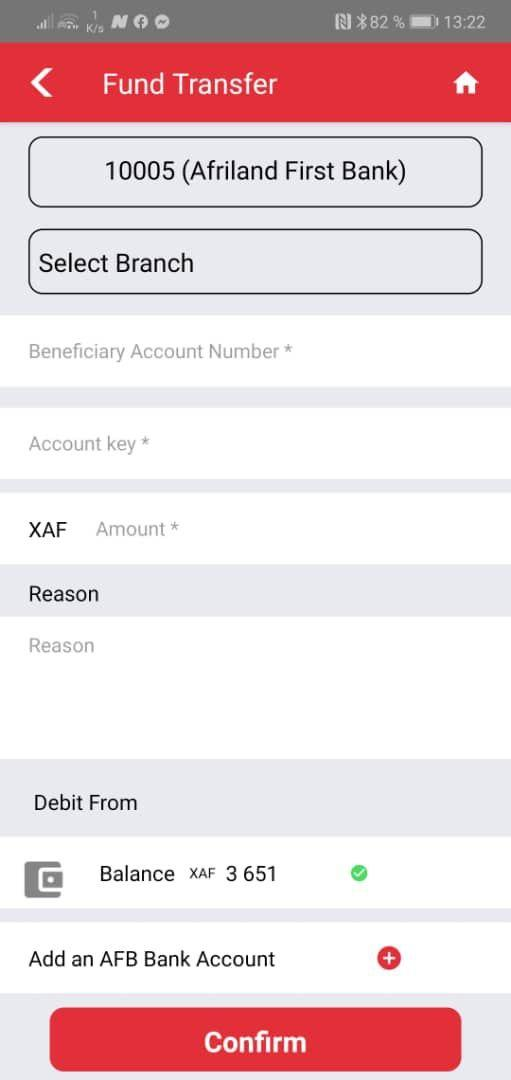
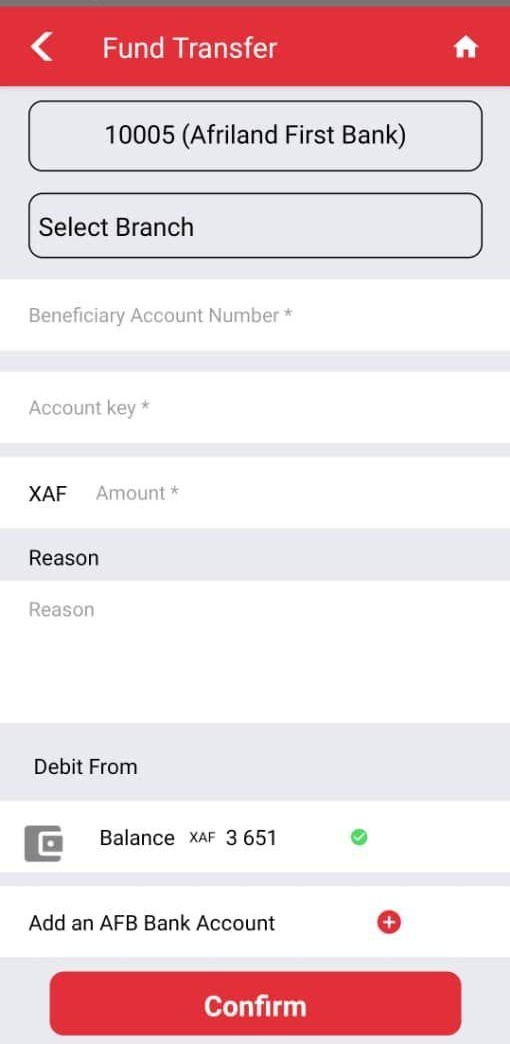
-added internationalisation. -cropped images

diff --git a/src/locale/fr/messages.js b/src/locale/fr/messages.js
@@ -1,1 +1,1 @@
-/* eslint-disable */module.exports={languageData:{"plurals":function(n,ord){if(ord)return n==1?"one":"other";return n>=0&&n<2?"one":"other"}},messages:{"\"Robes Tontines\"":"\"Robes Tontines\"","About Us":"A propos","Account Management":"Gestion de Comptes","Accounts":"Comptes","Add Address":"Ajouter une adresse","Add address":"Ajouter une adresse","Airtime":"Cr\xE9dit de Communication","Airtime to me":"Airtime to me","Airtime to someone":"Airtime to someone","Application for new account":"Demande d'ouverture de compte","Bank Account":"Compte Banquaires","Bank Accounts":"Comptes Banquaire","Beneficiary Account":"Comptes des B\xE9n\xE9ficiaire","Beneficiary Accounts":"Comptes des B\xE9n\xE9ficiaires","Cameroon":"Cameroun","Cash In":"Cash In","Cash Out":"Cash Out","Change PIN":"Changer le PIN","Choose From Beneficiary List":"Choisissez dans la Liste des B\xE9n\xE9ficiaires","Choose from beneficiary list":"Choisissez dans la Liste des B\xE9n\xE9ficiaires","Congo":"Congo","Contact":"Contact","Contribute":"Contribuer","Contribute to Tontine":"Contribuer \xE0 la Tontine","Data":"Donn\xE9es Mobiles","Doc":"Guide","Edit user Details":"Modifer Les Information de L'utilisateur","Edit user details":"Modifer Les Information de L'utilisateur","English":"Anglais","Enter Beneficiary Account":"Saisir le num\xE9ro de compte du b\xE9n\xE9ficiaire","Enter beneficiary account number":"Saisir le num\xE9ro de compte du b\xE9n\xE9ficiaire","Exchange Rate":"Taux de change","Exchange rates":"Taux de change","Flash Transfer":"Transfert Flash","French":"Fran\xE7ais","From an AFB Bank Account":"Depuis un compte bancaire AFB","Fund Transfer":"Transfert de fonds","Guinea":"Guin\xE9e","Home":"Accueil","Ivory Coast":"C\xF4te d'Ivoire","Learn More":"Plus D'Informations","Liberia":"Lib\xE9ria","Lorem ipsum dolor sit amet, consectetur adipiscing elit. Integer sagittis faucibus sollicitudin. Vestibulum arcu mauris, ullamcorper ac neque vel, tempus commodo felis. Nullam at vestibulum nibh, eu maximus tortor. Suspendisse neque justo, blandit ut consectetur at, facilisis ac augue. Etiam tincidunt ullamcorper magna. Nunc dignissim augue vehicula nibh euismod, sit amet facilisis elit suscipit. Nam nunc tortor, tincidunt vel enim ut, porttitor varius magna. Class aptent taciti sociosqu ad litora torquent per conubia nostra, per inceptos himenaeos. Cras elementum sapien tellus, vitae molestie metus elementum fermentum. Etiam non dignissim erat. Sed pulvinar sem ligula, mattis consectetur lacus suscipit a. Mauris hendrerit, lacus non interdum aliquet, orci ipsum faucibus leo, eget ultrices tellus urna a lacus. Sed condimentum ullamcorper metus. Integer quis tincidunt risus, sit amet pulvinar purus. In rhoncus felis ac velit faucibus ultrices. Duis metus nunc, vehicula eget tortor nec, sagittis ultrices metus.":"Lorem ipsum dolor sit amet, consectetur adipiscing elit. Integer sagittis faucibus sollicitudin. Vestibulum arcu mauris, ullamcorper ac neque vel, tempus commodo felis. Nullam at vestibulum nibh, eu maximus tortor. Suspendisse neque justo, blandit ut consectetur at, facilisis ac augue. Etiam tincidunt ullamcorper magna. Nunc dignissim augue vehicula nibh euismod, sit amet facilisis elit suscipit. Nam nunc tortor, tincidunt vel enim ut, porttitor varius magna. Class aptent taciti sociosqu ad litora torquent per conubia nostra, per inceptos himenaeos. Cras elementum sapien tellus, vitae molestie metus elementum fermentum. Etiam non dignissim erat. Sed pulvinar sem ligula, mattis consectetur lacus suscipit a. Mauris hendrerit, lacus non interdum aliquet, orci ipsum faucibus leo, eget ultrices tellus urna a lacus. Sed condimentum ullamcorper metus. Integer quis tincidunt risus, sit amet pulvinar purus. In rhoncus felis ac velit faucibus ultrices. Duis metus nunc, vehicula eget tortor nec, sagittis ultrices metus.","My Bank Account":"Mon Compte Bancaire","My Bank Accounts":"Mes Comptes Bancaires","My number":"Mon num\xE9ro","NOT AVAILABLE!":"PAS DISPONIBLE","New Tontine Payment":"Nouveau de Paiement de Tontine","New payment":"Nouveau Paiement","Other number":"Autre num\xE9ro","Partner Types":"Types de Partenaires","Partners":"Partenaires","Payment":"Paiement","Payment History":"Historique de Paiement","Pending Approvals":"Approbations en cours","Product":"Produit","Product and Service":"Produit et Service","Products and Services":"Produits et Services","Service":"Service","Service Payment":"Paiement de Service","Subscribtion for bank card":"Abonnement \xE0 la carte bancaire","To AFB Bank":"Vers un compte bancaire AFB","To An AFB Bank Account":"Vers un compte bancaire AFB","To Other Wallet":"Vers un autre portefeuill","To an AFB Bank Account":"Vers un compte bancaire AFB","To an AFB bank account":"Vers un compte bancaire AFB","To other wallet":"Vers un autre portefeuille","Tontine":"Tontine","Tontine History":"Historique de Tontine","Top Up":"Top Up","Via QR CODE":"Via QR CODE","about.text":"Tout savoir sur notre histoire, notre vision, notre strat\xE9gie pour devenir la banque africaine du 3\xE8me mill\xE9naire.A ce jour, la banque compte environ quarante (40) agences dans les dix (10) r\xE9gions du Cameroun malgr\xE9 la situation \xE9conomique d\xE9favorable du pays et la tendance g\xE9n\xE9rale \xE0 la faillite des banques.<0/>Obtenir des informations sur la gouvernance d'entreprise, notre r\xE9seau, nos relations avec les investisseurs.","fyjk;glifktfy":"fyjk;glifktfy","rights":"Tous Droits R\xE9serv\xE9s"}};
+/* eslint-disable */module.exports={languageData:{"plurals":function(n,ord){if(ord)return n==1?"one":"other";return n>=0&&n<2?"one":"other"}},messages:{"\"Robes Tontines\"":"\"Robes Tontines\"","About Us":"A propos","Account Management":"Gestion de Comptes","Accounts":"Comptes","Add Address":"Ajouter une adresse","Add address":"Ajouter une adresse","Airtime":"Cr\xE9dit de Communication","Airtime to me":"M'envoyer du Cr\xE9dit","Airtime to someone":"Envoyer du Cr\xE9dit \xE0 Quelqu'un","Application for new account":"Demande d'ouverture de compte","Bank Account":"Compte Banquaires","Bank Accounts":"Comptes Banquaire","Beneficiary Account":"Comptes des B\xE9n\xE9ficiaire","Beneficiary Accounts":"Comptes des B\xE9n\xE9ficiaires","Cameroon":"Cameroun","Cash In":"Cash In","Cash Out":"Cash Out","Change PIN":"Changer le PIN","Choose From Beneficiary List":"Choisissez dans la Liste des B\xE9n\xE9ficiaires","Choose from beneficiary list":"Choisissez dans la Liste des B\xE9n\xE9ficiaires","Congo":"Congo","Contact":"Contact","Contribute":"Contribuer","Contribute to Tontine":"Contribuer \xE0 la Tontine","Data":"Donn\xE9es Mobiles","Doc":"Guide","Edit user Details":"Modifer Les Information de L'utilisateur","Edit user details":"Modifer Les Information de L'utilisateur","English":"Anglais","Enter Beneficiary Account Number":"Saisir le num\xE9ro de compte du b\xE9n\xE9ficiaire","Enter beneficiary account number":"Saisir le num\xE9ro de compte du b\xE9n\xE9ficiaire","Exchange rates":"Taux de change","Flash Transfer":"Transfert Flash","French":"Fran\xE7ais","From an AFB Bank Account":"Depuis un compte bancaire AFB","Fund Transfer":"Transfert de fonds","Guinea":"Guin\xE9e","Home":"Accueil","Ivory Coast":"C\xF4te d'Ivoire","Learn More":"Plus D'Informations","Liberia":"Lib\xE9ria","Lorem ipsum dolor sit amet, consectetur adipiscing elit. Integer sagittis faucibus sollicitudin. Vestibulum arcu mauris, ullamcorper ac neque vel, tempus commodo felis. Nullam at vestibulum nibh, eu maximus tortor. Suspendisse neque justo, blandit ut consectetur at, facilisis ac augue. Etiam tincidunt ullamcorper magna. Nunc dignissim augue vehicula nibh euismod, sit amet facilisis elit suscipit. Nam nunc tortor, tincidunt vel enim ut, porttitor varius magna. Class aptent taciti sociosqu ad litora torquent per conubia nostra, per inceptos himenaeos. Cras elementum sapien tellus, vitae molestie metus elementum fermentum. Etiam non dignissim erat. Sed pulvinar sem ligula, mattis consectetur lacus suscipit a. Mauris hendrerit, lacus non interdum aliquet, orci ipsum faucibus leo, eget ultrices tellus urna a lacus. Sed condimentum ullamcorper metus. Integer quis tincidunt risus, sit amet pulvinar purus. In rhoncus felis ac velit faucibus ultrices. Duis metus nunc, vehicula eget tortor nec, sagittis ultrices metus.":"Lorem ipsum dolor sit amet, consectetur adipiscing elit. Integer sagittis faucibus sollicitudin. Vestibulum arcu mauris, ullamcorper ac neque vel, tempus commodo felis. Nullam at vestibulum nibh, eu maximus tortor. Suspendisse neque justo, blandit ut consectetur at, facilisis ac augue. Etiam tincidunt ullamcorper magna. Nunc dignissim augue vehicula nibh euismod, sit amet facilisis elit suscipit. Nam nunc tortor, tincidunt vel enim ut, porttitor varius magna. Class aptent taciti sociosqu ad litora torquent per conubia nostra, per inceptos himenaeos. Cras elementum sapien tellus, vitae molestie metus elementum fermentum. Etiam non dignissim erat. Sed pulvinar sem ligula, mattis consectetur lacus suscipit a. Mauris hendrerit, lacus non interdum aliquet, orci ipsum faucibus leo, eget ultrices tellus urna a lacus. Sed condimentum ullamcorper metus. Integer quis tincidunt risus, sit amet pulvinar purus. In rhoncus felis ac velit faucibus ultrices. Duis metus nunc, vehicula eget tortor nec, sagittis ultrices metus.","My Bank Account":"Mon Compte Bancaire","My Bank Accounts":"Mes Comptes Bancaires","My number":"Mon num\xE9ro","NOT AVAILABLE!":"PAS DISPONIBLE","New Tontine Payment":"Nouveau de Paiement de Tontine","New payment":"Nouveau Paiement","Other number":"Autre num\xE9ro","Partner Types":"Types de Partenaires","Partners":"Partenaires","Payment":"Paiement","Payment History":"Historique de Paiement","Pending Approvals":"Approbations en cours","Product":"Produit","Product and Service":"Produit et Service","Products and Services":"Produits et Services","Service":"Service","Service Payment":"Paiement de Service","Subscribtion for bank card":"Abonnement \xE0 la carte bancaire","To AFB Bank":"Vers un compte bancaire AFB","To An AFB Bank Account":"Vers un compte bancaire AFB","To Other Wallet":"Vers un autre portefeuille","To an AFB Bank Account":"Vers un compte bancaire AFB","To an AFB bank account":"Vers un compte bancaire AFB","To other wallet":"Vers un autre portefeuille","Tontine":"Tontine","Tontine History":"Historique de Tontine","Top Up":"Top Up","Via QR CODE":"Via QR CODE","about.text":"Tout savoir sur notre histoire, notre vision, notre strat\xE9gie pour devenir la banque africaine du 3\xE8me mill\xE9naire.A ce jour, la banque compte environ quarante (40) agences dans les dix (10) r\xE9gions du Cameroun malgr\xE9 la situation \xE9conomique d\xE9favorable du pays et la tendance g\xE9n\xE9rale \xE0 la faillite des banques.<0/>Obtenir des informations sur la gouvernance d'entreprise, notre r\xE9seau, nos relations avec les investisseurs.","fyjk;glifktfy":"fyjk;glifktfy","rights":"Tous Droits R\xE9serv\xE9s"}};

diff --git a/src/locale/en/messages.js b/src/locale/en/messages.js
@@ -1,1 +1,1 @@
-/* eslint-disable */module.exports={languageData:{"plurals":function(n,ord){var s=String(n).split("."),v0=!s[1],t0=Number(s[0])==n,n10=t0&&s[0].slice(-1),n100=t0&&s[0].slice(-2);if(ord)return n10==1&&n100!=11?"one":n10==2&&n100!=12?"two":n10==3&&n100!=13?"few":"other";return n==1&&v0?"one":"other"}},messages:{"\"Robes Tontines\"":"\"Robes Tontines\"","About Us":"About Us","Account Management":"Account Management","Accounts":"Accounts","Add Address":"Add Address","Add address":"Add address","Airtime":"Airtime","Airtime to me":"Airtime to me","Airtime to someone":"Airtime to someone","Application for new account":"Application for new account","Bank Account":"Bank Account","Bank Accounts":"Bank Accounts","Beneficiary Account":"Beneficiary Account","Beneficiary Accounts":"Beneficiary Accounts","Cameroon":"Cameroon","Cash In":"Cash In","Cash Out":"Cash Out","Change PIN":"Change PIN","Choose From Beneficiary List":"Choose From Beneficiary List","Choose from beneficiary list":"Choose from beneficiary list","Congo":"Congo","Contact":"Contact","Contribute":"Contribute","Contribute to Tontine":"Contribute to Tontine","Data":"Data","Doc":"Doc","Edit user Details":"Edit user Details","Edit user details":"Edit user details","English":"English","Enter Beneficiary Account":"Enter Beneficiary Account","Enter beneficiary account number":"Enter beneficiary account number","Exchange Rate":"Exchange Rate","Exchange rates":"Exchange rates","Flash Transfer":"Flash Transfer","French":"French","From an AFB Bank Account":"From an AFB Bank Account","Fund Transfer":"Fund Transfer","Guinea":"Guinea","Home":"Home","Ivory Coast":"Ivory Coast","Learn More":"Learn More","Liberia":"Liberia","Lorem ipsum dolor sit amet, consectetur adipiscing elit. Integer sagittis faucibus sollicitudin. Vestibulum arcu mauris, ullamcorper ac neque vel, tempus commodo felis. Nullam at vestibulum nibh, eu maximus tortor. Suspendisse neque justo, blandit ut consectetur at, facilisis ac augue. Etiam tincidunt ullamcorper magna. Nunc dignissim augue vehicula nibh euismod, sit amet facilisis elit suscipit. Nam nunc tortor, tincidunt vel enim ut, porttitor varius magna. Class aptent taciti sociosqu ad litora torquent per conubia nostra, per inceptos himenaeos. Cras elementum sapien tellus, vitae molestie metus elementum fermentum. Etiam non dignissim erat. Sed pulvinar sem ligula, mattis consectetur lacus suscipit a. Mauris hendrerit, lacus non interdum aliquet, orci ipsum faucibus leo, eget ultrices tellus urna a lacus. Sed condimentum ullamcorper metus. Integer quis tincidunt risus, sit amet pulvinar purus. In rhoncus felis ac velit faucibus ultrices. Duis metus nunc, vehicula eget tortor nec, sagittis ultrices metus.":"Lorem ipsum dolor sit amet, consectetur adipiscing elit. Integer sagittis faucibus sollicitudin. Vestibulum arcu mauris, ullamcorper ac neque vel, tempus commodo felis. Nullam at vestibulum nibh, eu maximus tortor. Suspendisse neque justo, blandit ut consectetur at, facilisis ac augue. Etiam tincidunt ullamcorper magna. Nunc dignissim augue vehicula nibh euismod, sit amet facilisis elit suscipit. Nam nunc tortor, tincidunt vel enim ut, porttitor varius magna. Class aptent taciti sociosqu ad litora torquent per conubia nostra, per inceptos himenaeos. Cras elementum sapien tellus, vitae molestie metus elementum fermentum. Etiam non dignissim erat. Sed pulvinar sem ligula, mattis consectetur lacus suscipit a. Mauris hendrerit, lacus non interdum aliquet, orci ipsum faucibus leo, eget ultrices tellus urna a lacus. Sed condimentum ullamcorper metus. Integer quis tincidunt risus, sit amet pulvinar purus. In rhoncus felis ac velit faucibus ultrices. Duis metus nunc, vehicula eget tortor nec, sagittis ultrices metus.","My Bank Account":"My Bank Account","My Bank Accounts":"My Bank Accounts","My number":"My number","NOT AVAILABLE!":"NOT AVAILABLE!","New Tontine Payment":"New Tontine Payment","New payment":"New payment","Other number":"Other number","Partner Types":"Partner Types","Partners":"Partners","Payment":"Payment","Payment History":"Payment history","Pending Approvals":"Pending approval","Product":"Product","Product and Service":"Product and Service","Products and Services":"Products and Services","Service":"Service","Service Payment":"Service Payment","Subscribtion for bank card":"Subscribtion for bank card","To AFB Bank":"To AFB Bank","To An AFB Bank Account":"To An AFB Bank Account","To Other Wallet":"To Other Wallet","To an AFB Bank Account":"To an AFB Bank Account","To an AFB bank account":"To an AFB bank account","To other wallet":"To other wallet","Tontine":"Tontine","Tontine History":"Tontine history","Top Up":"Top Up","Via QR CODE":"Via QR CODE","about.text":"Learn all about our history, our vision, our strategy to become the african bank of the 3rd millennium. So far, the bank counts about forty (40) branches in the ten (10) regions of Cameroon despite the country\u2019s unfavourable economic situation and the general tendency of banks going bankrupt.<0/>Obtain information on corporate governance, our network, our relationships with investors.","fyjk;glifktfy":"fyjk;glifktfy","rights":"All rights reserved"}};
+/* eslint-disable */module.exports={languageData:{"plurals":function(n,ord){var s=String(n).split("."),v0=!s[1],t0=Number(s[0])==n,n10=t0&&s[0].slice(-1),n100=t0&&s[0].slice(-2);if(ord)return n10==1&&n100!=11?"one":n10==2&&n100!=12?"two":n10==3&&n100!=13?"few":"other";return n==1&&v0?"one":"other"}},messages:{"\"Robes Tontines\"":"\"Robes Tontines\"","About Us":"About Us","Account Management":"Account Management","Accounts":"Accounts","Add Address":"Add Address","Add address":"Add address","Airtime":"Airtime","Airtime to me":"Airtime to me","Airtime to someone":"Airtime to someone","Application for new account":"Application for new account","Bank Account":"Bank Account","Bank Accounts":"Bank Accounts","Beneficiary Account":"Beneficiary Account","Beneficiary Accounts":"Beneficiary Accounts","Cameroon":"Cameroon","Cash In":"Cash In","Cash Out":"Cash Out","Change PIN":"Change PIN","Choose From Beneficiary List":"Choose From Beneficiary List","Choose from beneficiary list":"Choose from beneficiary list","Congo":"Congo","Contact":"Contact","Contribute":"Contribute","Contribute to Tontine":"Contribute to Tontine","Data":"Data","Doc":"Doc","Edit user Details":"Edit user Details","Edit user details":"Edit user details","English":"English","Enter Beneficiary Account Number":"Enter Beneficiary Account Number","Enter beneficiary account number":"Enter beneficiary account number","Exchange rates":"Exchange rates","Flash Transfer":"Flash Transfer","French":"French","From an AFB Bank Account":"From an AFB Bank Account","Fund Transfer":"Fund Transfer","Guinea":"Guinea","Home":"Home","Ivory Coast":"Ivory Coast","Learn More":"Learn More","Liberia":"Liberia","Lorem ipsum dolor sit amet, consectetur adipiscing elit. Integer sagittis faucibus sollicitudin. Vestibulum arcu mauris, ullamcorper ac neque vel, tempus commodo felis. Nullam at vestibulum nibh, eu maximus tortor. Suspendisse neque justo, blandit ut consectetur at, facilisis ac augue. Etiam tincidunt ullamcorper magna. Nunc dignissim augue vehicula nibh euismod, sit amet facilisis elit suscipit. Nam nunc tortor, tincidunt vel enim ut, porttitor varius magna. Class aptent taciti sociosqu ad litora torquent per conubia nostra, per inceptos himenaeos. Cras elementum sapien tellus, vitae molestie metus elementum fermentum. Etiam non dignissim erat. Sed pulvinar sem ligula, mattis consectetur lacus suscipit a. Mauris hendrerit, lacus non interdum aliquet, orci ipsum faucibus leo, eget ultrices tellus urna a lacus. Sed condimentum ullamcorper metus. Integer quis tincidunt risus, sit amet pulvinar purus. In rhoncus felis ac velit faucibus ultrices. Duis metus nunc, vehicula eget tortor nec, sagittis ultrices metus.":"Lorem ipsum dolor sit amet, consectetur adipiscing elit. Integer sagittis faucibus sollicitudin. Vestibulum arcu mauris, ullamcorper ac neque vel, tempus commodo felis. Nullam at vestibulum nibh, eu maximus tortor. Suspendisse neque justo, blandit ut consectetur at, facilisis ac augue. Etiam tincidunt ullamcorper magna. Nunc dignissim augue vehicula nibh euismod, sit amet facilisis elit suscipit. Nam nunc tortor, tincidunt vel enim ut, porttitor varius magna. Class aptent taciti sociosqu ad litora torquent per conubia nostra, per inceptos himenaeos. Cras elementum sapien tellus, vitae molestie metus elementum fermentum. Etiam non dignissim erat. Sed pulvinar sem ligula, mattis consectetur lacus suscipit a. Mauris hendrerit, lacus non interdum aliquet, orci ipsum faucibus leo, eget ultrices tellus urna a lacus. Sed condimentum ullamcorper metus. Integer quis tincidunt risus, sit amet pulvinar purus. In rhoncus felis ac velit faucibus ultrices. Duis metus nunc, vehicula eget tortor nec, sagittis ultrices metus.","My Bank Account":"My Bank Account","My Bank Accounts":"My Bank Accounts","My number":"My number","NOT AVAILABLE!":"NOT AVAILABLE!","New Tontine Payment":"New Tontine Payment","New payment":"New payment","Other number":"Other number","Partner Types":"Partner Types","Partners":"Partners","Payment":"Payment","Payment History":"Payment history","Pending Approvals":"Pending approval","Product":"Product","Product and Service":"Product and Service","Products and Services":"Products and Services","Service":"Service","Service Payment":"Service Payment","Subscribtion for bank card":"Subscribtion for bank card","To AFB Bank":"To AFB Bank","To An AFB Bank Account":"To An AFB Bank Account","To Other Wallet":"To Other Wallet","To an AFB Bank Account":"To an AFB Bank Account","To an AFB bank account":"To an AFB bank account","To other wallet":"To other wallet","Tontine":"Tontine","Tontine History":"Tontine history","Top Up":"Top Up","Via QR CODE":"Via QR CODE","about.text":"Learn all about our history, our vision, our strategy to become the african bank of the 3rd millennium. So far, the bank counts about forty (40) branches in the ten (10) regions of Cameroon despite the country\u2019s unfavourable economic situation and the general tendency of banks going bankrupt.<0/>Obtain information on corporate governance, our network, our relationships with investors.","fyjk;glifktfy":"fyjk;glifktfy","rights":"All rights reserved"}};

diff --git a/src/components/DocPage/sections/fund transfer/AFB account/afb_account.js b/src/components/DocPage/sections/fund transfer/AFB account/afb_account.js
@@ -17,22 +17,3 @@ const AFB_ACCOUNT_ITEMS = [
 ];
 
 export default AFB_ACCOUNT_ITEMS;
-import {Trans} from "@lingui/macro";
-import React from 'react';
-import choose_from_beneficiary_list from './choose_from_beneficiary_list.jpg';
-import enter_beneficiary_account_number from './enter_beneficiary_account_number.jpg';
-
-const AFB_ACCOUNT_ITEMS = [
-    {
-        title:<Trans>Choose From Beneficiary List</Trans>,
-        image:[choose_from_beneficiary_list],
-        description:<Trans>fyjk;glifktfy</Trans>
-    },
-    {
-        title:<Trans>Enter Beneficiary Account</Trans>,
-        image:[enter_beneficiary_account_number],
-        description:<Trans>fyjk;glifktfy</Trans>
-    }
-];
-
-export default AFB_ACCOUNT_ITEMS;

diff --git a/src/components/DocPage/sections/cash out/CashOut.js b/src/components/DocPage/sections/cash out/CashOut.js
@@ -1,4 +1,4 @@
-import {Trans} from "@lingui/macro";
+ import {Trans} from "@lingui/macro";
 import cashOut from './cash_out.jpg'
 import cashOutToAfb from './cash_out_to_afb.jpg'
 import home from './../home.jpg'
